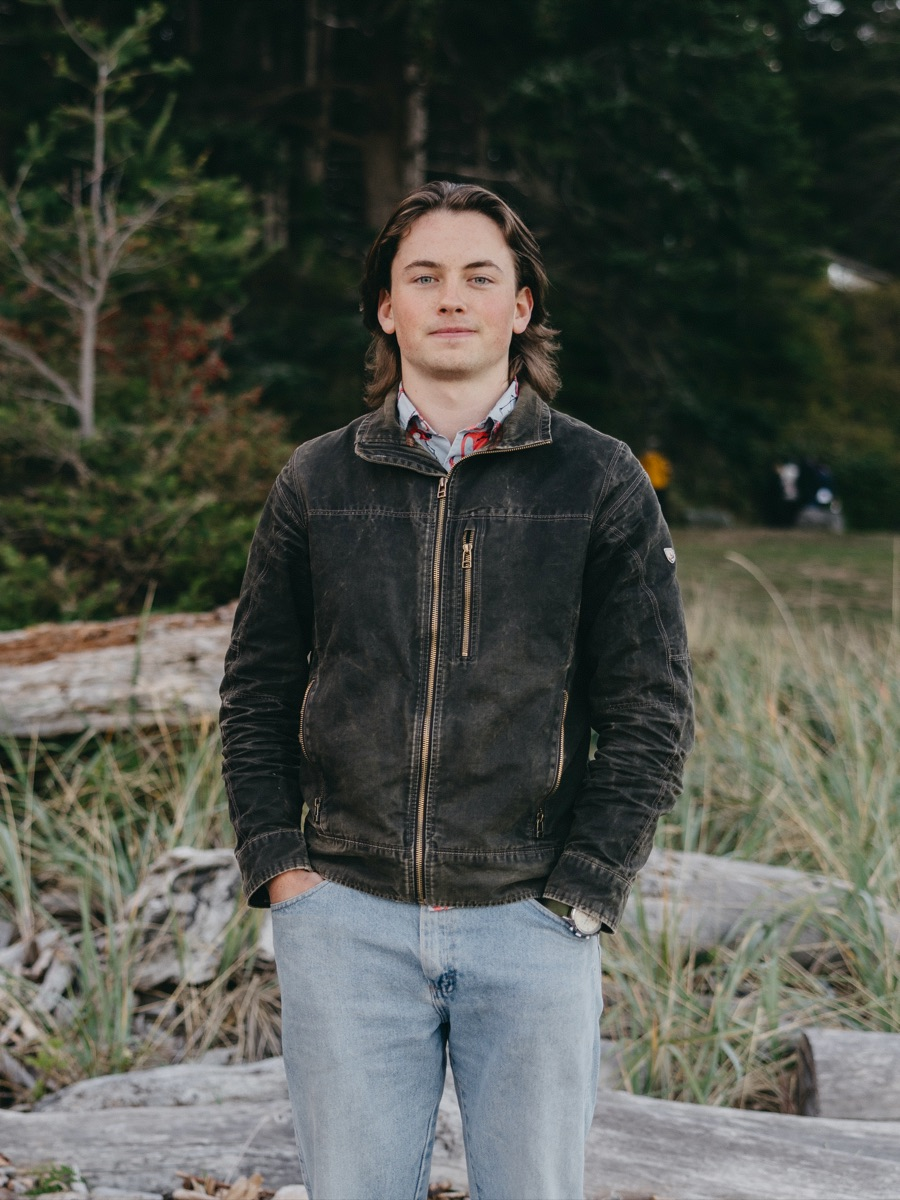
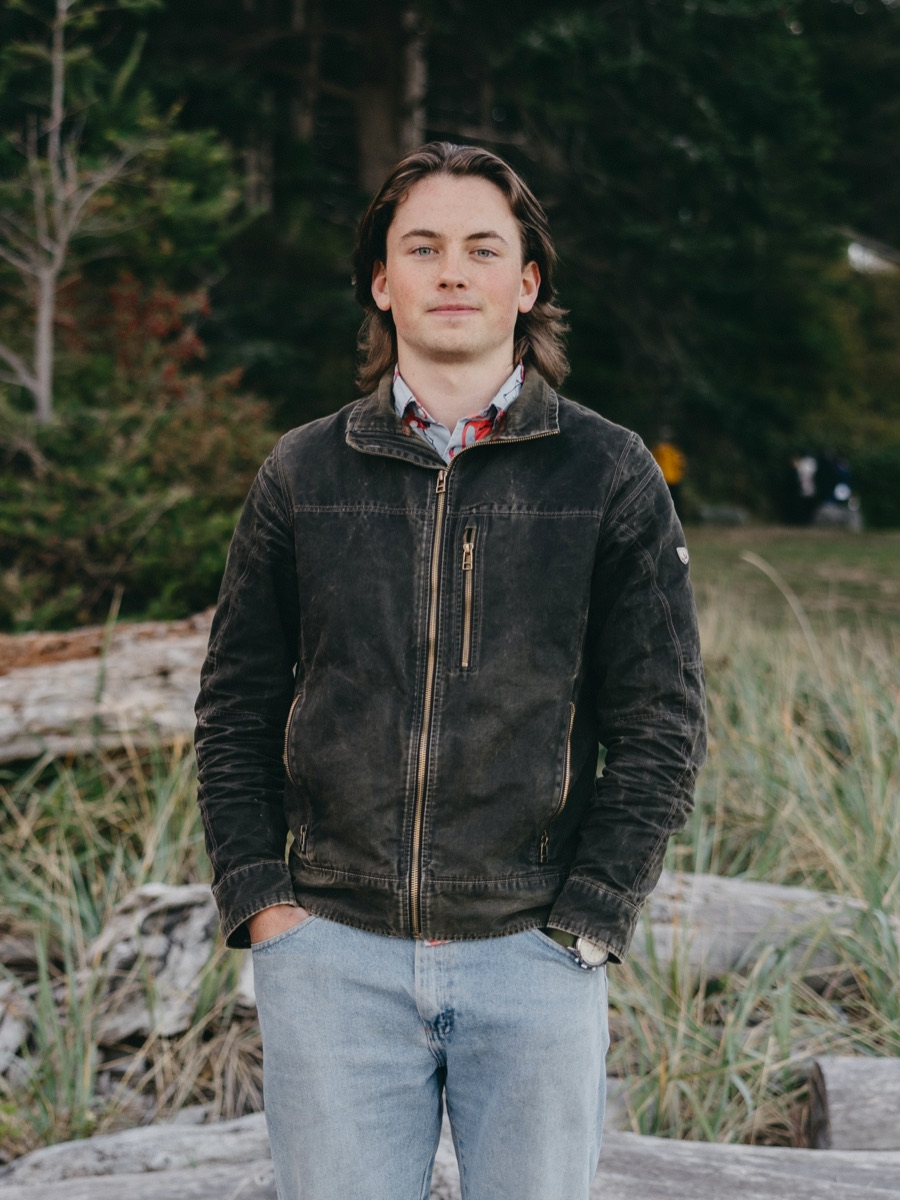
Hero cropped in on the synth; updated headshot; story card radius concentric with its inner cards

diff --git a/assets/css/styles.css b/assets/css/styles.css
@@ -117,10 +117,12 @@ a:hover { text-decoration: underline; text-underline-offset: 3px; }
 /* Mission */
 .mission { padding: 3rem 1.25rem; }
 .mission-inner {
+    --card-pad: clamp(1.5rem, 4vw, 3rem);
     max-width: 860px; margin: 0 auto;
     background: var(--cap);
-    border-radius: var(--radius-xl);
-    padding: clamp(1.5rem, 4vw, 3rem);
+    /* outer radius = inner radius + padding, so the border reads as one width around the corner */
+    border-radius: calc(var(--radius-lg) + var(--card-pad));
+    padding: var(--card-pad);
     box-shadow: var(--shadow);
 }
 .mission h2 { margin-bottom: 1.25rem; }
@@ -283,7 +285,6 @@ a:hover { text-decoration: underline; text-underline-offset: 3px; }
     .site-nav a { padding: 0.4rem 0.7rem; font-size: 0.95rem; }
     .hero, .mission, .log { padding-left: 1rem; padding-right: 1rem; }
     .hero-image img { border-radius: var(--radius-lg); }
-    .mission-inner { border-radius: var(--radius-lg); }
     .carousel { border-radius: var(--radius-lg); }
     .carousel-slide { padding: 0.6rem 0.6rem 0.25rem; }
     .carousel-slide img { max-height: 420px; border-radius: var(--radius-md); }

diff --git a/index.html b/index.html
@@ -44,7 +44,7 @@
                 </div>
             </div>
             <figure class="hero-image">
-                <img src="assets/images/log/hero.jpg" alt="The Arbutus-1 look-alike model lying in grass: a beige keyboard with an orange-brown base and four coloured knobs" width="2000" height="1500" fetchpriority="high">
+                <img src="assets/images/log/hero.jpg" alt="The Arbutus-1 look-alike model lying in grass: a beige keyboard with an orange-brown base and four coloured knobs" width="1500" height="1125" fetchpriority="high">
                 <figcaption>Look-alike model, September 2026. Printed PETG, no electronics inside yet.</figcaption>
             </figure>
         </section>
